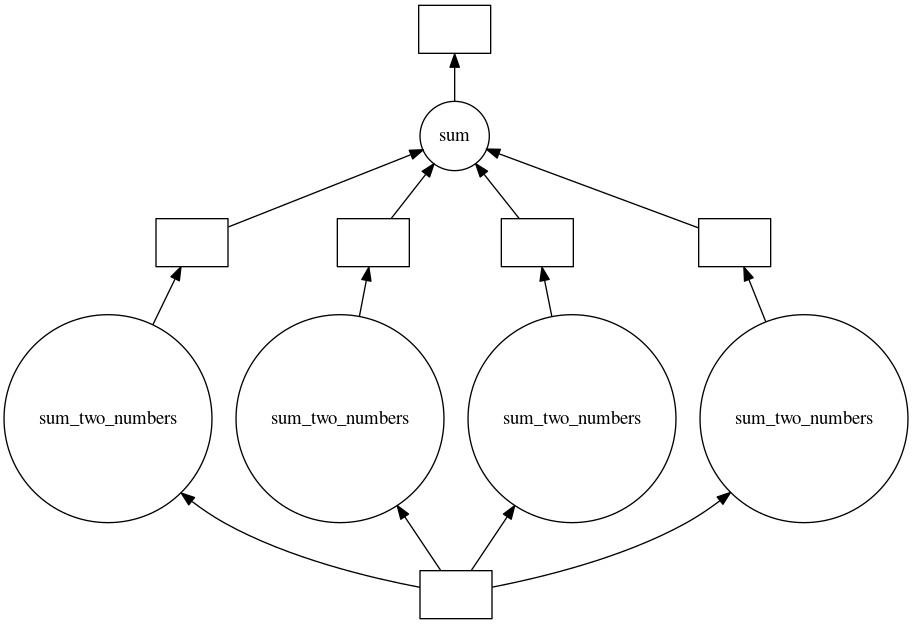
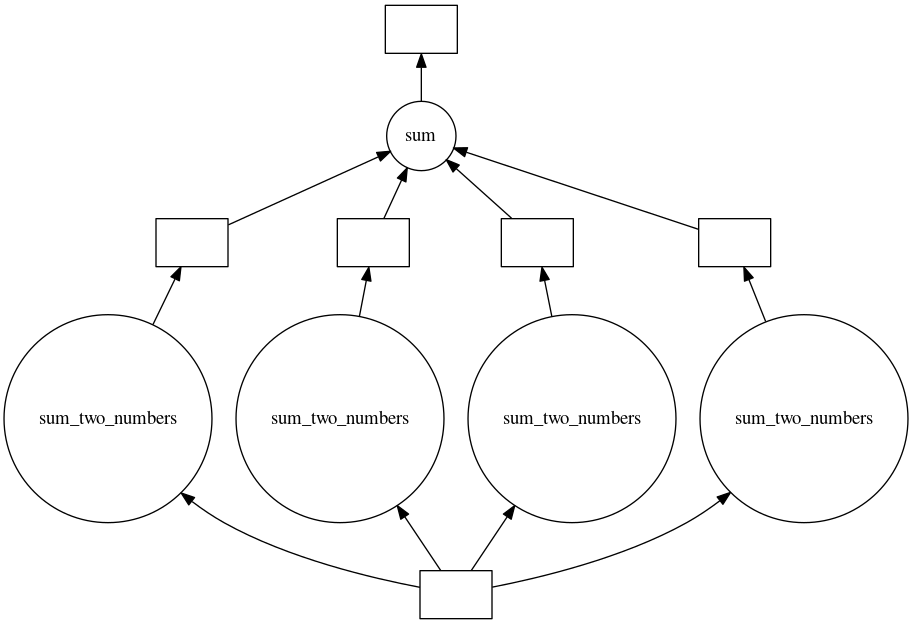
dags

diff --git a/dag1/dag.py b/dag1/dag.py
@@ -19,7 +19,8 @@ def main():
     step2 = [delayed(multiply_four)(j) for j in step1]
     total = delayed(sum)(step2)
     total_persisted = total.persist()
-    total_persisted.visualize("total1") 
+    total_persisted.visualize("total_persisted")
+    total.visualize("total1") 
     data2 = [delayed(sum_two_numbers)(k,total_persisted) for k in data]
     total2 = delayed(sum)(data2)
     total2.visualize("total2")
